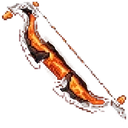
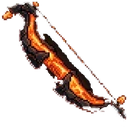
숲의 검 · 용암 활의 빛 번짐 폭을 줄여 손잡이가 바래지 않게 하고 황금 날개 활 · 번개 지팡이의 검은 바탕을 지운다
Claude-Session: https://claude.ai/code/session_01Gwv45QP5Hv2erexXEgws5m

Changed region(s): [[0.0625, 0.0, 1.0, 0.9375], [0.3438, 0.5312, 0.4375, 0.625]]

diff --git a/src/game/updates.js b/src/game/updates.js
@@ -6,6 +6,14 @@ export const RPG_NOTICE = { id: "2026-10-36", notes: ["2026-10-36", "2026-10-35"
 
 export const UPDATES = [
   {
+    id: "2026-10-44",
+    date: "10월 16일",
+    items: [
+      "숲의 검 · 용암 활이 바래 보이던 것을 고쳤습니다.",
+      "황금 날개 활 · 번개 지팡이에 남아 있던 검은 바탕을 지웠습니다.",
+    ],
+  },
+  {
     id: "2026-10-43",
     date: "10월 16일",
     items: [

diff --git a/tools/cut-weapons.py b/tools/cut-weapons.py
@@ -21,13 +21,15 @@ KIND = {"flame": "checker", "thunder": "black", "forest": "black", "viper": "whi
         "skull_staff": "frame", "holy_staff": "black", "thunder_staff": "white",
         # 활
         "lava_bow": "black", "star_bow": "white", "gold_bow": "frame", "shadow_bow": "black", "thunder_bow": "black"}
-GLOW = {"thunder": 18, "forest": 18, "frost": 18, "holy": 18,   # 빛이 번진 그림 — 바탕 쪽 빛 띠의 폭
+GLOW = {"thunder": 18, "forest": 4, "frost": 18, "holy": 18,   # 빛이 번진 그림 — 바탕 쪽 빛 띠의 폭(넓으면 얇은 손잡이까지 밝혀 바랜다)
         "flame_staff": 18, "galaxy_staff": 18, "moon_staff": 22, "ice_staff": 18, "holy_staff": 22,
-        "lava_bow": 18, "gold_bow": 18, "shadow_bow": 18, "thunder_bow": 18}
+        "lava_bow": 5, "gold_bow": 18, "shadow_bow": 18, "thunder_bow": 18}
 # 흰 바탕 둘레에 검은 띠(그림자 · 구름)가 붙은 그림 — 흰 바탕과 이어진 검은 곳까지 바탕으로 본다
 DARK_RIM = {"thunder_staff", "star_bow"}
 # 활 안쪽에 어두운 바탕(밤하늘)이 칠해진 그림 — 어두운 곳은 밝기만큼만 남겨 별 · 활대 · 활줄만 보이게 한다. (완전히 지울 밝기, 다 남길 밝기)
-DARK_FILL = {"star_bow": (34, 80)}
+DARK_FILL = {"star_bow": (34, 80), "gold_bow": (34, 80)}
+# 번개 선에 갇혀 바탕 지우기가 닿지 않은 검은 덩어리 — 원본 좌표 상자 안의 검은 곳만 지운다
+ERASE_DARK = {"thunder_staff": [(0, 110, 95, 200), (60, 200, 170, 270)]}
 # 액자 그림 — 잘라 낼 바깥 폭(px)과 액자 안 바탕
 FRAME = {"holy": (44, "black"), "ice_staff": (68, "black"), "skull_staff": (58, "white"), "gold_bow": (112, "black")}
 
@@ -89,6 +91,10 @@ def cut(i):
         k = band & (a > 0.02)
         for c in range(3):
             rgb[..., c][k] = np.clip(im[..., c][k] / np.maximum(mx[k] / 110, 0.05), 0, 255)
+    for x0, y0, x1, y1 in ERASE_DARK.get(i, []):
+        box = np.zeros_like(a, bool)
+        box[y0:y1, x0:x1] = True
+        a[box & (mx < 40)] = 0
     if i in DARK_FILL:
         lo, hi = DARK_FILL[i]
         a = np.minimum(a, np.clip((mx - lo) / (hi - lo), 0, 1))   # 색은 그대로 두고 비침만 — 밝히면 활대가 바랜다
